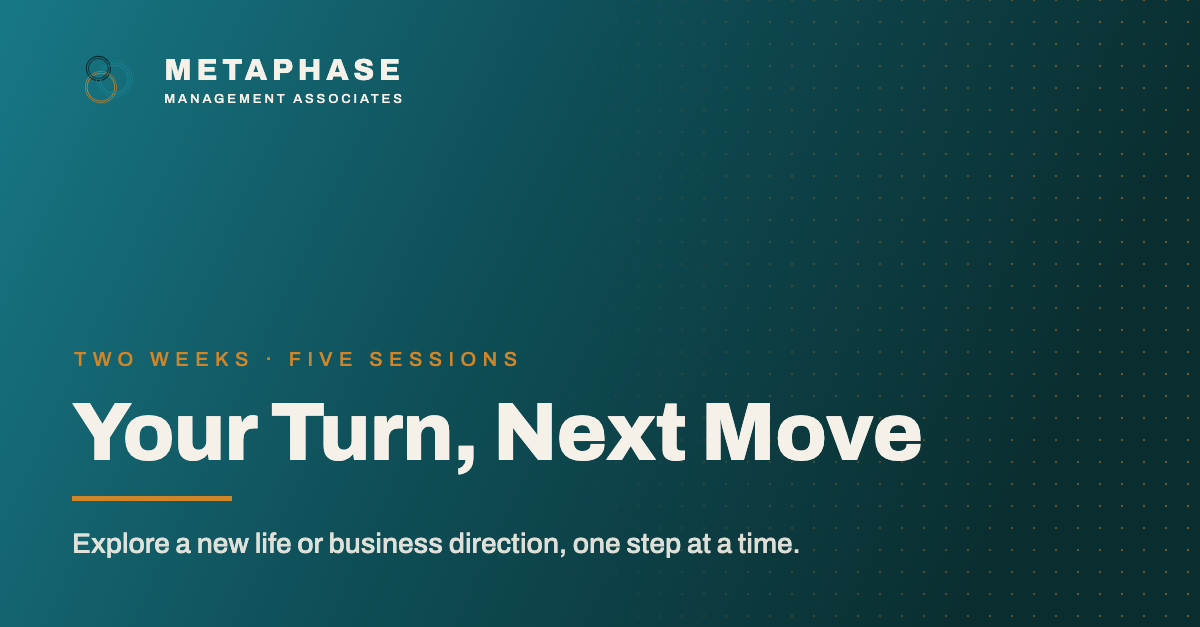
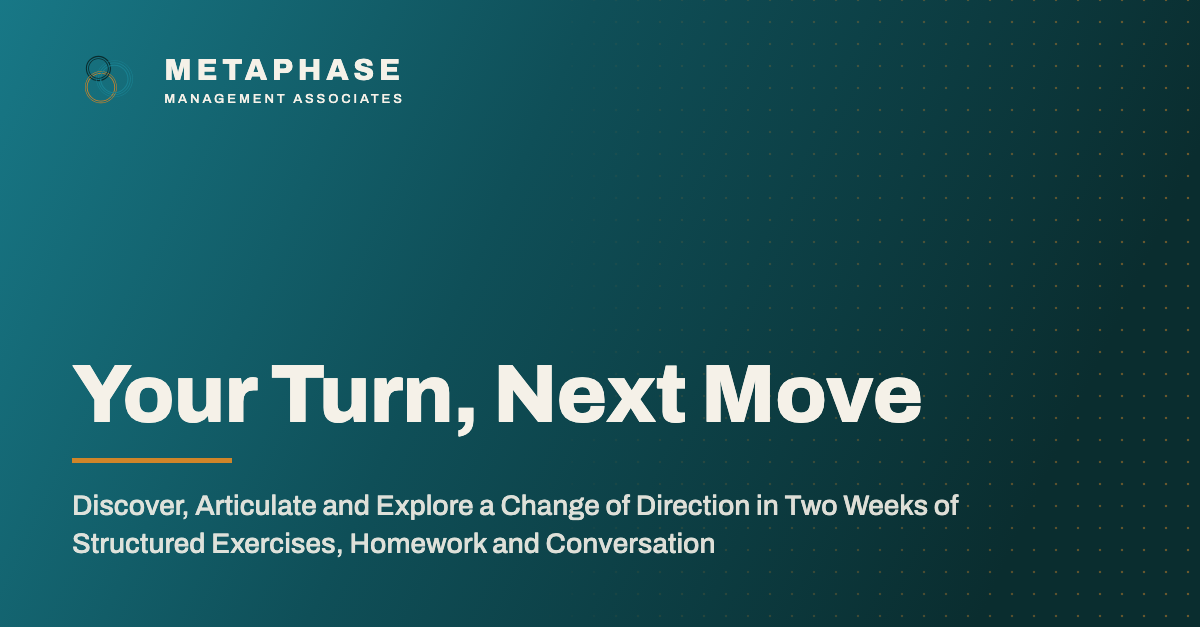
Your Turn, Next Move uses only Susan's wording
The page now follows her Google Doc word for word. Gone: the four headings,
the card sentence, the details bar (duration, "Contact for pricing" and an
assumed "one-to-one"), and the link on Pivot Point Passage. Her subtitle is
the tagline, her first sentence is the card text, and her lead-in lines stay
plain lines. The banner shows only her title and subtitle.

Claude-Session: https://claude.ai/code/session_015qX9YHQvccsubZUEXTgMBc

Changed region(s): [[0.0617, 0.5455, 0.7708, 0.7576], [0.0617, 0.7879, 0.8017, 0.9091]]

diff --git a/_services/your-turn-next-move.md b/_services/your-turn-next-move.md
@@ -1,43 +1,36 @@
 ---
 layout: service
 title: Your Turn, Next Move
-tagline: Discover, articulate and explore a change of direction in two weeks of structured exercises, homework and conversation
+tagline: Discover, Articulate and Explore a Change of Direction in Two Weeks of Structured Exercises, Homework and Conversation
 icon: fas fa-chess-knight
-duration: Two weeks -- five online meetings
-price: Contact for pricing
-format: Private, one-to-one, online
 order: 2
 group: individuals
 new: true
-summary: For individuals. Two weeks of structured exercises, homework and conversation that turn "what's next?" into practical scenarios you can test.
+summary: "Your Turn, Next Move shifts your question of what’s next? from pondering and dreaming into one or more action-based practical scenarios that enable you to explore a possible new life or business direction."
 image: /assets/social/share-your-turn-next-move.png
 ---
 
-## What is Your Turn, Next Move?
-
-**Your Turn, Next Move** shifts your question of *what's next?* from pondering and dreaming into one or more action-based practical scenarios that enable you to explore a possible new life or business direction.
+**Your Turn, Next Move** shifts your question of *what’s next?* from pondering and dreaming into one or more action-based practical scenarios that enable you to explore a possible new life or business direction.
 
 This structured suite of activities taps into your experience, insights, connections, fears, dreams and imagination as they affect a potential aspiration or important decision. At the conclusion, you will have articulated a concrete, high-level identification of one or more possibilities and ways to test them further.
 
-## Over Two Weeks You Will
+Over two weeks you will
 
 - Play games about serious stuff
 - Search for patterns, themes, qualities, values and interests
-- Express what you'd rather not say and invite in the hidden
+- Express what you’d rather not say and invite in the hidden
 - Identify the improbable, yet possible
 - Talk, in meaningful conversation about deeply personal thoughts
 - Outline what to do next
 
-## What the Package Includes
+This package incorporates
 
 - Five meetings (online) over two weeks
 - Homework assignments after each meeting
 - One written summary of the articulated choice(s)
 
-## What Comes Next
-
 **Your Turn, Next Move** lays the foundation for continued scenario development.
 
 Follow-on tasks for business directions may take the form of formalized concepts and plans, product mockups, market tests, partnership explorations and such.
 
-For personal directions, this work may grow into a guided and supported 90-day program of defined tasks to set and reach goals. It may lead to ongoing support for six-to-twelve months as a [Pivot Point Passage]({{ '/services/pivot-point-passage/' | relative_url }}) assignment.
+For personal directions, this work may grow into a guided and supported 90-day program of defined tasks to set and reach goals. It may lead to ongoing support for six-to-twelve months as a **Pivot Point Passage** assignment.
